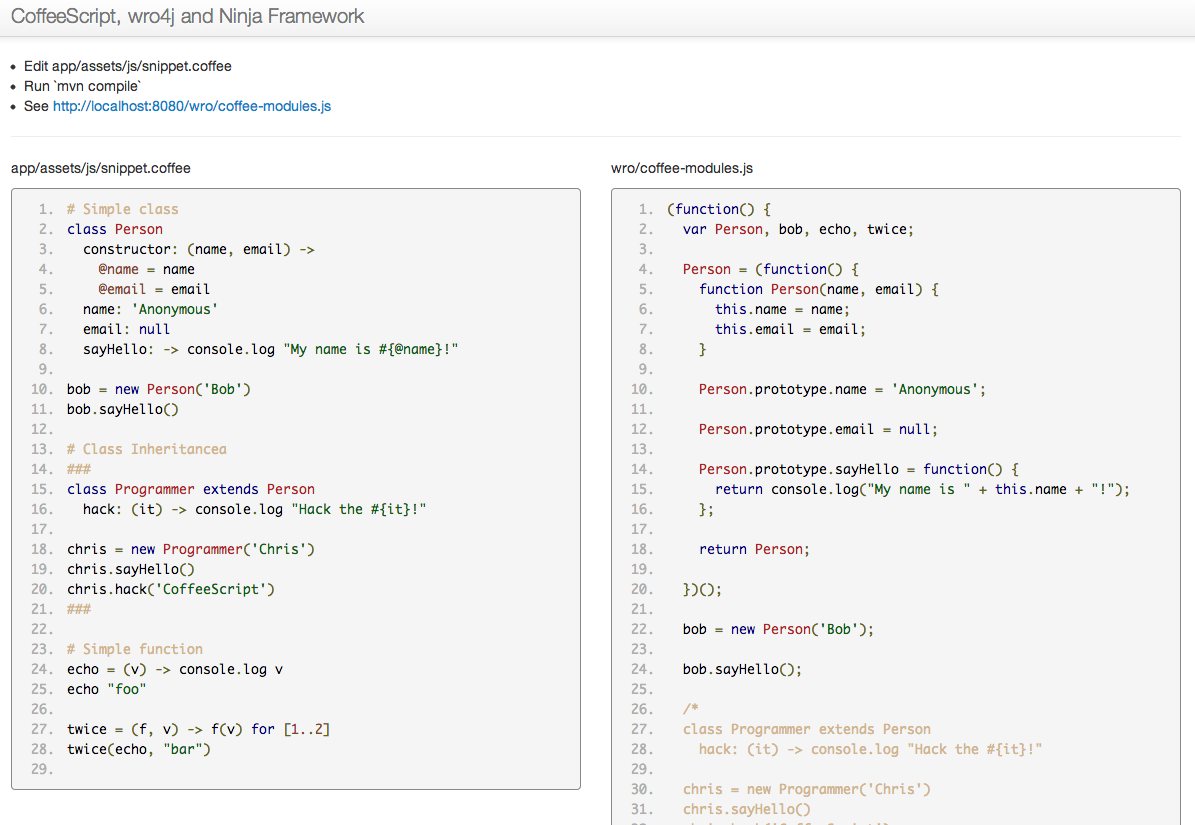
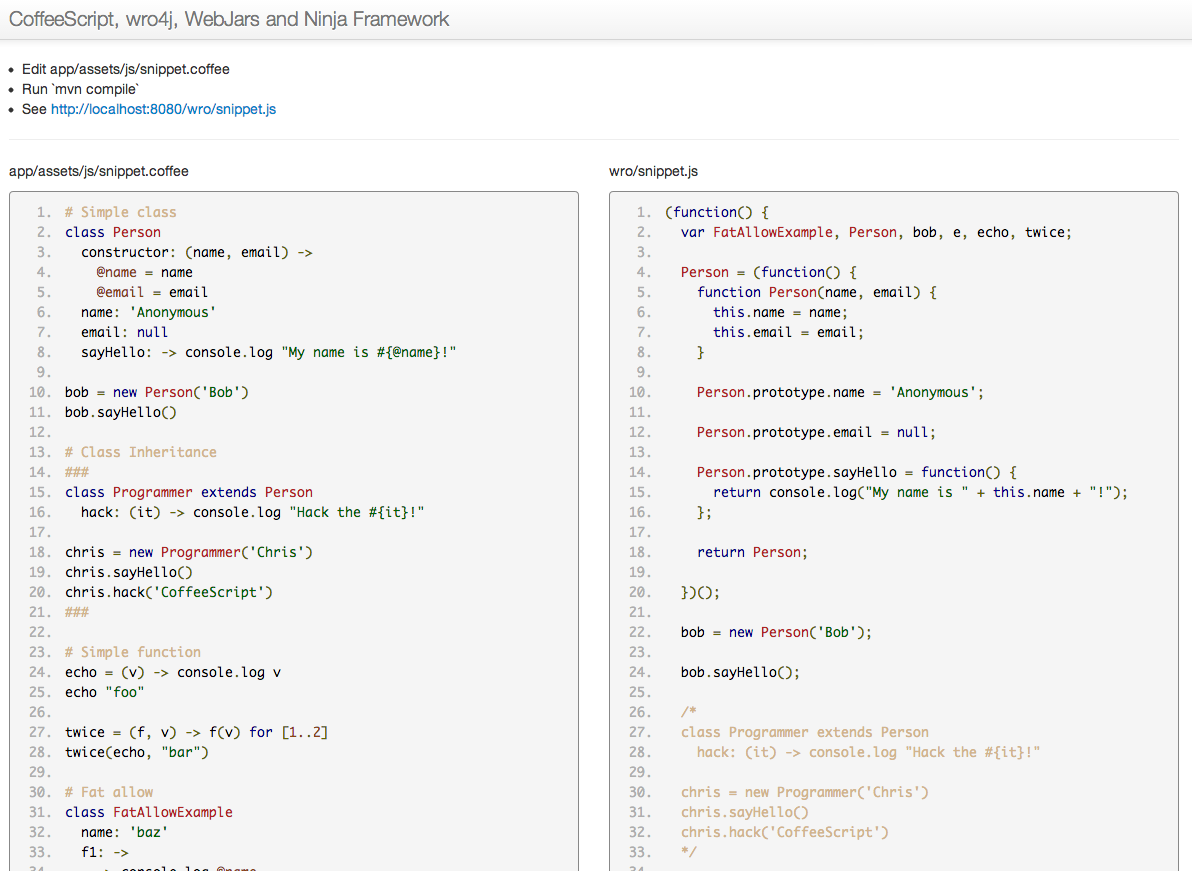
Updated

diff --git a/app/views/layout/defaultLayout.ftl.html b/app/views/layout/defaultLayout.ftl.html
@@ -3,7 +3,7 @@
 <html>
 <head>
 <meta charset="utf-8">
-<title>CoffeeScript, wro4j and Ninja Framework</title>
+<title>CoffeeScript, wro4j, WebJars and Ninja Framework</title>
 <link href="/webjars/bootstrap/2.3.2/css/bootstrap.min.css" rel="stylesheet">
 <link href="/webjars/bootstrap/2.3.2/css/bootstrap-responsive.min.css" rel="stylesheet">
 <link href="/assets/css/prettify.css" rel="stylesheet">

diff --git a/app/views/RootController/index.ftl.html b/app/views/RootController/index.ftl.html
@@ -3,7 +3,7 @@
 
 <li>Edit app/assets/js/snippet.coffee</li>
 <li>Run `mvn compile`</li>
-<li>See <a href="http://localhost:8080/wro/coffee-modules.js" target="_blank">http://localhost:8080/wro/coffee-modules.js</a></li>
+<li>See <a href="http://localhost:8080/wro/snippet.js" target="_blank">http://localhost:8080/wro/snippet.js</a></li>
 
 <hr/>
 

diff --git a/app/views/layout/header.ftl.html b/app/views/layout/header.ftl.html
@@ -1,7 +1,7 @@
 <div class="navbar navbar-fixed-top">
   <div class="navbar-inner">
     <div class="container">
-      <a class="brand" href="/">CoffeeScript, wro4j and Ninja Framework</a>
+      <a class="brand" href="/">CoffeeScript, wro4j, WebJars and Ninja Framework</a>
       <div class="nav-collapse">
       </div>
     </div>
